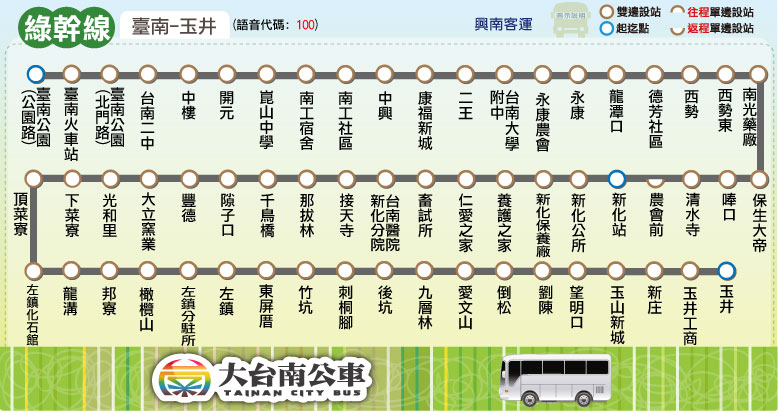
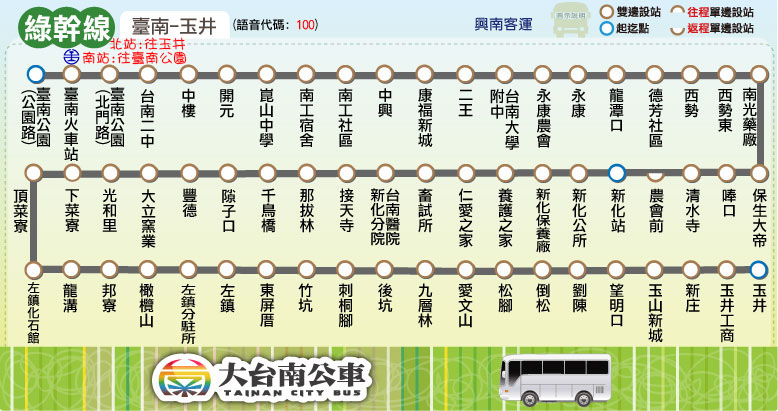
Update time schedule: brown; Update route map: r,g,b; Remove news: g16,11,99

diff --git a/route/fare_and_time/brown.js b/route/fare_and_time/brown.js
@@ -39,11 +39,11 @@ brown_fare = [
 brown_main_stop_name = ["新營","民治<br />市政中心","統聯<br />客運","鹽水","歡雅","大埔","麻油寮","學甲","奇美<br />佳里分院","佳里"];
 brown_main_stop_time_consume = [0, 3, 8, 18, 26, 33, 33, 43, 53, 60];
 brown_important_stop = [0, 3, 7, 9]; // 新營, 鹽水, 學甲, 佳里
-brown_time_go = [["06:05",[6]],["06:35",[5]],["07:05",[6]],["07:35",[6]],["08:05",[5]],["08:35",[6]],["09:05",[6]],["09:35",[6]],
+brown_time_go = [["06:05",[6]],["06:15",0,3],["06:35",[5]],["07:05",[6]],["07:35",[6]],["08:05",[5]],["08:35",[6]],["09:05",[6]],["09:35",[6]],
 ["10:05",[5]],["10:35",[6]],["11:05",[6]],["11:35",[6]],["12:05",[6]],["12:35",[5]],["13:05",[6]],["14:05",[6]],["14:35",[5]],
 ["15:05",[6]],["15:35",[6]],["16:05",[6]],["16:35",[6]],["17:05",[5]],["17:10",0,3],["17:35",[6]],["18:05",[6]],["18:20",0,3,['燈']],["19:05",[6]],["19:40",0,3,['燈']],["20:05",[6]],["21:30",0,3,['燈']]
 ];
-brown_time_return = [["06:05",[6]],["06:35",[5]],["07:05",[6]],["07:35",[6]],["08:05",[5]],["08:35",[6]],["09:05",[6]],["09:35",[6]],
+brown_time_return = [["06:40",3,0],["06:05",[6]],["06:35",[5]],["07:05",[6]],["07:35",[6]],["08:05",[5]],["08:35",[6]],["09:05",[6]],["09:35",[6]],
 ["10:05",[5]],["10:35",[6]],["11:05",[6]],["11:35",[5]],["12:05",[6]],["12:35",[6]],["13:05",[6]],["14:05",[5]],["14:35",[6]],
 ["15:05",[6]],["15:35",[6]],["16:05",[5]],["16:35",[6]],["17:35",3,0],["17:05",[6]],["17:35",[6]],["18:05",[5]],["19:55",3,0,['燈']],["19:05",[6]],["20:15",3,0,['燈']],["20:05",[6]],["22:05",3,0,['燈']]
 ];

diff --git a/green/green_16.html b/green/green_16.html
@@ -17,7 +17,7 @@
 <body>
 <script type="text/javascript">
 	block_header();
-	block_route_map('因新化區中正路新化老街辦理「2015新化年貨大街」活動，於104年2月12日至104年2月17日實施道路管制，本路線綠16-「新化-關廟-高鐵台南站」線(無經過統一花園班次)改道路徑如<a target="_blank" href="http://snnew.myweb.hinet.net/1040205-1.pdf">附件</a>所示。改道路線：<font color="blue">原路線-中山路-民生路-復興路-外環道路-中正路-原路線</font>，期間不停靠「瓜瓜園生態館」招呼站，如欲前往關廟或高鐵台南站乘客請就近至「新化站」或「頂山子腳」招呼站搭乘。');
+	block_route_map(null);
 	block_route_info(route_interval,'興南客運','','里程計費','http://2384.tainan.gov.tw:8080/AGPSRemoteQuery3/ajaxBus.jsp?pathId=1116&locale=zh_TW');
 	block_fare(0, null);
 	block_time_schedule('新化','關廟/高鐵臺南站','<font color="red">「豐」</font>表示繞駛新豐高中，僅頭班繞駛');

diff --git a/route/fare_and_time/green.js b/route/fare_and_time/green.js
@@ -11,10 +11,10 @@ green_interval_stop = [
 ["光和里","下菜寮","頂菜寮","左鎮化石館","龍溝"], // 化石館
 ["邦寮","橄欖山","左鎮分駐所","左鎮","東屏厝"], // 左鎮
 ["竹坑","莿桐腳","後坑","九層林"], // 九層林
-["愛文山","倒松","劉陳","望明口","玉山新城","新庄","玉井工商","玉井站"] // 玉井
+["愛文山","松腳","倒松","劉陳","望明口","玉山新城","新庄","玉井工商","玉井站"] // 玉井
 ];
 green_stop_time_consume = [0,5,6,7,9,10,11,12,14,15,16,17,19,21,22,24,26,28,30,32,34,36,38,39,40,41,43,44,45,47,48,49,50,50,
-51,52,52,53,54,55,56,56,57,58,59,60,60,61,62,62,63,63,64,65,66,67,68,69,70];
+51,52,52,53,54,55,56,56,57,58,59,60,60,61,62,62,63,63,64,64,65,66,67,68,69,70];
 green_fare = [
 [26],
 [26,26],

diff --git a/tour_bus/tour_bus_99.html b/tour_bus/tour_bus_99.html
@@ -22,7 +22,7 @@
 <body>
 <script type="text/javascript">
 	block_header();
-	block_route_map('因廟會影響，即日起至2015/2/28，99路公車站位「鹿耳門天后宮」不停靠，請改至鄰近站位候車。');
+	block_route_map(null);
 	block_route_info(route_interval,'府城客運','假日30分鐘1班','一段票','http://2384.tainan.gov.tw:8080/AGPSRemoteQuery3/ajaxBus.jsp?pathId=10210&locale=zh_TW',[['平日','normal'],['假日','holiday'],['寒暑假平日','vacation']]);
 	block_fare(22,'<h1>臺南市民持身分證免費搭乘台灣好行88、99路</h1>','四草野生動物保護區');
 	block_multiple_time_schedule( [['平日班表','normal'],['假日班表','holiday'],['寒暑假平日','vacation']], '<p>&nbsp;</p>\

diff --git a/city_bus/city_bus_11.html b/city_bus/city_bus_11.html
@@ -17,7 +17,7 @@
 <body>
 <script type="text/javascript">
 	block_header();
-	block_route_map('因廟會影響，即日起至2015/2/28，11路公車站位「青砂街一段」、「聖母廟」、「聖母廟東」、「土城國小」、「城東里」等五站不停靠，請改至鄰近站位候車。');
+	block_route_map(null);
 	block_route_info(route_interval,'府城客運','','二段票 分段點：海東國小','http://2384.tainan.gov.tw:8080/AGPSRemoteQuery3/ajaxBus.jsp?pathId=10169&locale=zh_TW');
 	block_fare(2, null,'海東國小');
 	block_time_schedule('大成路口','城西里',W_message);
